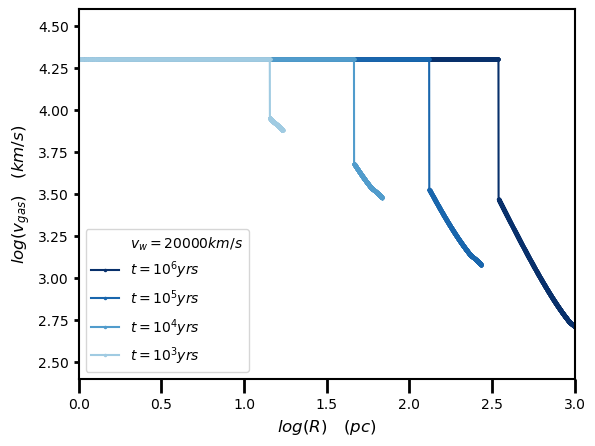
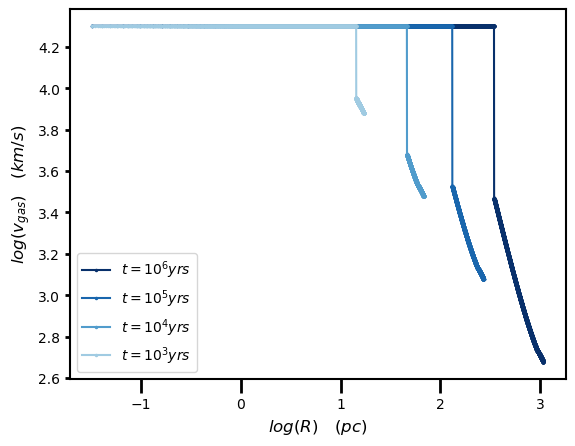
Rerun default param (test 0)

diff --git a/ShockedISM_ParamFile.py b/ShockedISM_ParamFile.py
@@ -42,12 +42,6 @@ Initial parameters and shock feature equations from FG2012
 """
 
 """
-FOR THIS CODE, TO CHANGE INITIAL WIND VELCOITY, USE EDIT: FIND AND REPLACE
-VALUES: 10k, 20k, 30k, 40k, 50k
----Don't include decimals when using find and replace because value in plot titles as well
-"""
-
-"""
 #Initial parameters
 #alpha= 1.0 #0 < alpha < 2
 L_AGN = 10.0**46.0 #erg/s = (g*cm^2/s^2)/s
@@ -71,7 +65,7 @@ R0_all = R0_all*(3.086*(10.0**18)) # pc --> cm
 print(vin_all)
 
 # SET WHICH ROW OF INITAL PARAM TO USE
-param_row = 15
+param_row = 0
 L_AGN=L_AGN_all[param_row]; vin=vin_all[param_row]; alpha=alpha_all[param_row]
 nH_0= nH_0_all[param_row]; R0 = R0_all[param_row]; Tin=Tin_all[param_row]
 
